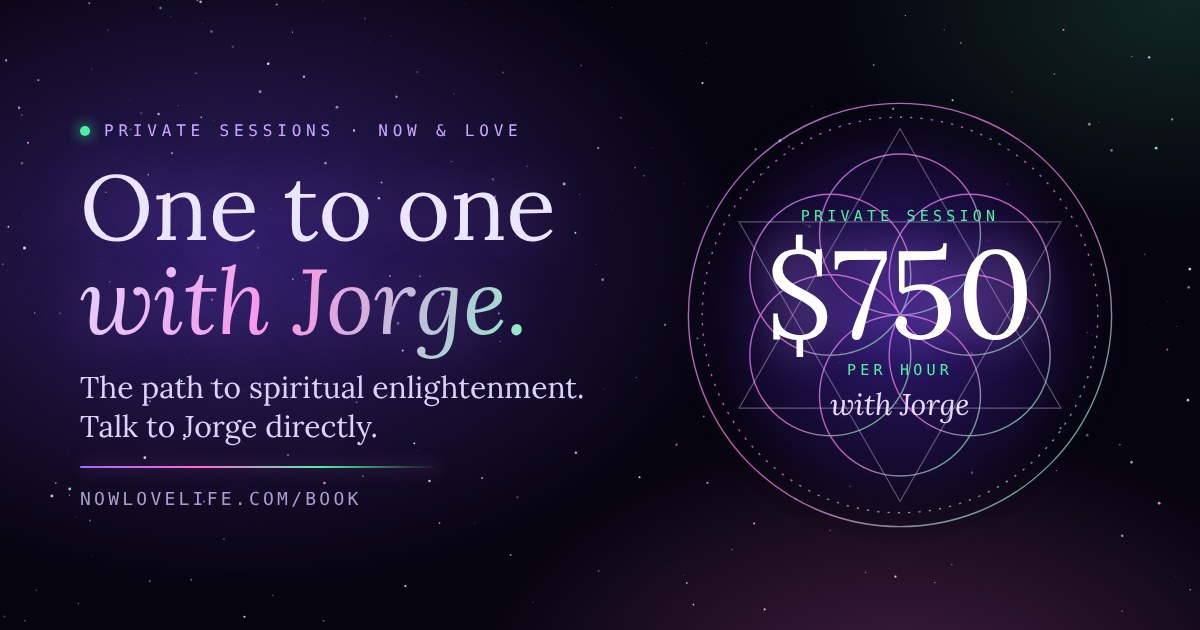
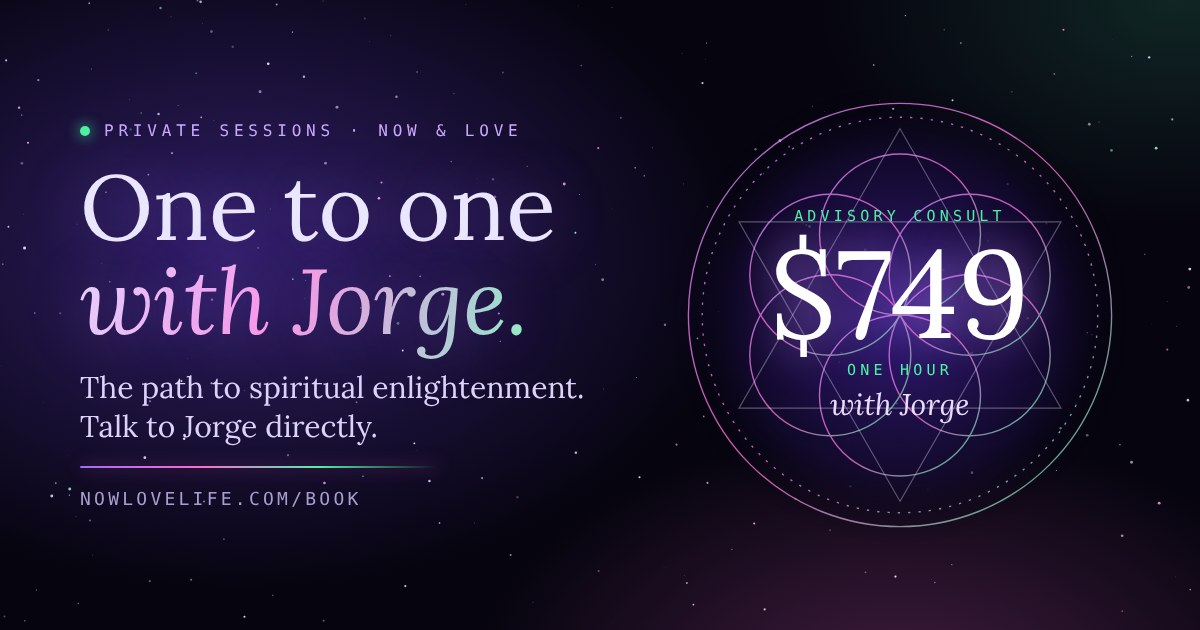
Book your $749 advisory consult: new default session, copy and social card
Claude-Session: https://claude.ai/code/session_01PRGQuP4dWFHSfHQrNf59sK

Changed region(s): [[0.6167, 0.3317, 0.8633, 0.573], [0.7092, 0.573, 0.74, 0.6032]]

diff --git a/public/book/index.html b/public/book/index.html
@@ -12,7 +12,7 @@
 <meta name="generator" content="MaxColeGlaser.com build 84924b8c612a2de8ef9af46d">
 <meta name="viewport" content="width=device-width, initial-scale=1, viewport-fit=cover">
 <title>Private Sessions with Jorge · Now &amp; Love</title>
-<meta name="description" content="Reach spiritual enlightenment one to one with Jorge, founder of the Enlighten Method. Private sessions at $750 an hour. Choose your time and talk to Jorge directly.">
+<meta name="description" content="Reach spiritual enlightenment one to one with Jorge, founder of the Enlighten Method. Book your $749 advisory consult. Choose your time and talk to Jorge directly.">
 <meta name="theme-color" content="#06040f">
 <meta name="color-scheme" content="dark">
 <meta name="robots" content="index, follow, max-image-preview:large">
@@ -23,7 +23,7 @@
 <meta property="og:type" content="website">
 <meta property="og:site_name" content="Now &amp; Love">
 <meta property="og:title" content="Private Sessions with Jorge · Now &amp; Love">
-<meta property="og:description" content="Reach spiritual enlightenment one to one with Jorge, founder of the Enlighten Method. $750 an hour. Choose your time and talk to Jorge directly.">
+<meta property="og:description" content="Reach spiritual enlightenment one to one with Jorge, founder of the Enlighten Method. Book your $749 advisory consult. Choose your time and talk to Jorge directly.">
 <meta property="og:image" content="https://nowlovelife.com/book-og.jpg">
 <meta property="og:image:width" content="1200">
 <meta property="og:image:height" content="630">
@@ -49,8 +49,8 @@
     <div class="copy">
       <p class="eyebrow"><span class="dot"></span>Private sessions &middot; Talk to Jorge directly</p>
       <h1 id="heroTitle">Reach enlightenment, <em>one to one with Jorge.</em></h1>
-      <p class="lead">This is the service at the heart of Now &amp; Love: private sessions with Jorge, founder of the Enlighten Method, to guide you to spiritual enlightenment. No middlemen and no waiting list. You talk to Jorge directly.</p>
-      <div class="chips"><span class="chip"><b>$750</b> an hour</span><span class="chip">One to one</span><span class="chip">Pay securely online</span></div>
+      <p class="lead">This is the service at the heart of Now &amp; Love: a private advisory consult with Jorge, founder of the Enlighten Method. We assist you with trauma healing, gaining spiritual elevation, accomplishing your goals, and becoming the Godhead version of you that God created you to become. Unlock your full potential. No middlemen and no waiting list. You talk to Jorge directly.</p>
+      <div class="chips"><span class="chip"><b>$749</b> advisory consult</span><span class="chip">One to one</span><span class="chip">Pay securely online</span></div>
       <div class="actions"><a class="btn" href="#book">Choose your time</a><a class="btn ghost" href="#message">Message Jorge</a></div>
       <p class="demo-note" id="demoNote" hidden>Preview: this page runs on sample data. No real bookings are made and no card is charged.</p>
     </div>
@@ -70,12 +70,12 @@
           <polygon points="200,38 340,281 60,281"/><polygon points="200,362 60,119 340,119"/><circle cx="200" cy="200" r="140" stroke-dasharray="1 5"/>
         </g>
       </svg>
-      <div class="core"><span class="per">Private session</span><span class="price">$750</span><span class="per">per hour</span><span class="with">with Jorge</span></div>
+      <div class="core"><span class="per">Advisory consult</span><span class="price">$749</span><span class="per">one hour</span><span class="with">with Jorge</span></div>
     </div>
   </section>
 
   <ol class="how">
-    <li><b>Choose your session</b><span>One hour, or a longer course in one sitting, at $750 an hour.</span></li>
+    <li><b>Choose your session</b><span>The $749 advisory consult, or a longer course in one sitting.</span></li>
     <li><b>Pick your time</b><span>Every opening is shown in your own time zone. Pay securely to hold it.</span></li>
     <li><b>Talk to Jorge</b><span>Your confirmation arrives at once, and Jorge meets you at the time you chose.</span></li>
   </ol>

diff --git a/public/index.html b/public/index.html
@@ -110,23 +110,25 @@
     <div class="ss-grid">
       <div class="ss-text">
         <p class="eyebrow"><span class="dot"></span>Private sessions &middot; Talk to Jorge directly</p>
-        <h2>The path to enlightenment, <em>one to one with Jorge.</em></h2>
-        <p class="lead">This is the service Now &amp; Love offers to reach spiritual enlightenment: private sessions with Jorge, founder of the Enlighten Method. No middlemen and no waiting list. You talk to Jorge directly.</p>
+        <h2>Book your $749 advisory consult, <em>one to one with Jorge.</em></h2>
+        <p class="lead">This is the service Now &amp; Love offers to reach spiritual enlightenment: a private advisory consult with Jorge, founder of the Enlighten Method. No middlemen and no waiting list. You talk to Jorge directly.</p>
         <ul class="ss-gifts">
-          <li>Clear what stands between you and your light</li>
-          <li>Raise your vibration and develop your super human abilities</li>
-          <li>Connect to your divine purpose and leave with your next steps</li>
+          <li>Trauma healing</li>
+          <li>Gaining spiritual elevation</li>
+          <li>Accomplishing your goals</li>
+          <li>Becoming the Godhead version of you that God created you to become</li>
+          <li>Unlocking your full potential</li>
         </ul>
         <div class="ss-acts">
-          <a class="btn" href="/book/">Book your session</a>
+          <a class="btn" href="/book/">Book your $749 consult</a>
           <a class="btn ghost" href="/book/#message">Message Jorge directly</a>
         </div>
       </div>
       <div class="ss-card">
         <div>
-          <div class="ss-price"><span class="ss-k">Private session</span><b>$750</b><span class="ss-k">per hour, with Jorge</span></div>
+          <div class="ss-price"><span class="ss-k">Advisory consult</span><b>$749</b><span class="ss-k">one hour, with Jorge</span></div>
           <div class="ss-offers" id="ssOffers">
-            <a href="/book/?offering=elevation-consultation"><b>Spiritual Elevation Consultation</b><small>1 hour</small><i>$750</i></a>
+            <a href="/book/?offering=elevation-consultation"><b>Advisory Consult</b><small>1 hour</small><i>$749</i></a>
             <a href="/book/?offering=elevation-course-2"><b>Elevation Course, Two Hours</b><small>2 hours in one sitting</small><i>$1,500</i></a>
             <a href="/book/?offering=elevation-course-3"><b>Elevation Course, Three Hours</b><small>3 hours in one sitting</small><i>$2,250</i></a>
           </div>
@@ -870,7 +872,7 @@
         <p class="label">Reach out</p>
         <div class="contact-actions">
           <a class="btn" href="/book/" id="bookBtn">Book a private session</a>
-          <span class="note">$750 an hour with Jorge. Choose your time and talk to him directly.</span>
+          <span class="note">Your $749 advisory consult with Jorge. Choose your time and talk to him directly.</span>
         </div>
         <form data-demo id="contactForm" name="contact" method="POST" data-netlify="true" netlify-honeypot="bot-field" novalidate>
           <input type="hidden" name="form-name" value="contact">

diff --git a/public/admin/index.html b/public/admin/index.html
@@ -99,7 +99,7 @@
     </div>
 
     <div class="view-sec" data-view="sessions" hidden>
-      <div><h2>Your sessions</h2><p class="muted" style="margin: 0.3rem 0 0;">What clients can book, how long it lasts and what it costs. Your rate is $750 an hour.</p></div>
+      <div><h2>Your sessions</h2><p class="muted" style="margin: 0.3rem 0 0;">What clients can book, how long it lasts and what it costs. Your advisory consult is $749; longer courses are $750 an hour.</p></div>
       <div id="offerEds" class="view-sec"></div>
       <div><button class="btn small quiet" type="button" id="addOffer">Add a session</button></div>
       <div class="savebar"><span class="muted">Changes are not live until you save.</span><button class="btn" type="button" id="saveOffers">Save sessions</button></div>
